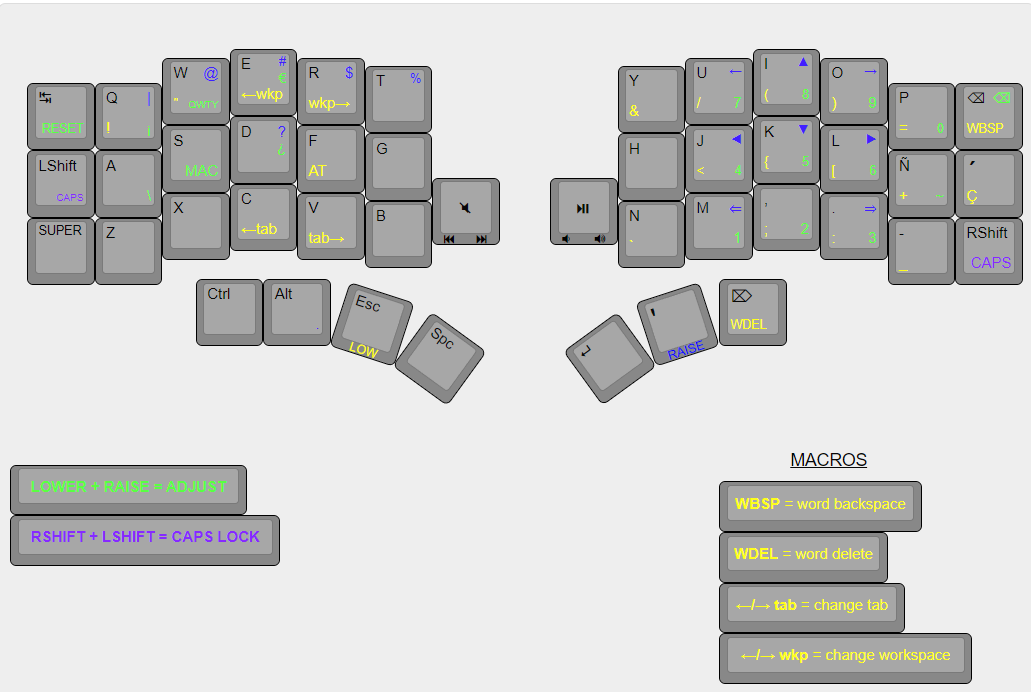
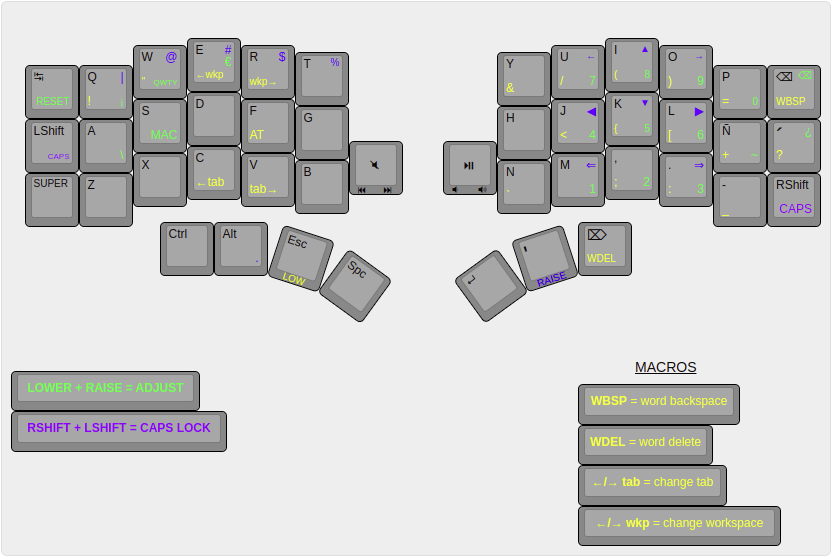
moved ? to lower+'

diff --git a/sofle/keymap.c b/sofle/keymap.c
@@ -169,7 +169,7 @@ const uint16_t PROGMEM keymaps[][MATRIX_ROWS][MATRIX_COLS] = {
  * |------+------+------+------+------+------|                    |------+------+------+------+------+------|
  * |      |  !   |   "  |PRV_WPC|NXT_WPC|    |                    |    & |   /  |  (   |   )  |   =  |WRDDEL|
  * |------+------+------+------+------+------|                    |------+------+------+------+------+------|
- * |      |      |      |      |KC_C_WINDOW| |-------.    ,-------|      |   <  |  {}  |  []  |  +*  |   Ç  |
+ * |      |      |      |      |KC_C_WINDOW| |-------.    ,-------|      |   <  |  {}  |  []  |  +*  |   ?  |
  * |------+------+------+------+------+------|       |    |       |------+------+------+------+------+------|
  * |      |      | |KC_C_TAB_prev|KC_C_TAB|  |-------|    |-------|   `  |      |   ;  |   :  |   _  |      |
  * `-----------------------------------------/       /     \      \-----------------------------------------'
@@ -181,7 +181,7 @@ const uint16_t PROGMEM keymaps[][MATRIX_ROWS][MATRIX_COLS] = {
 [_LOWER] = LAYOUT(
   _______,  _______, _______, _______, _______ ,_______,                    _______,   _______,   _______,   _______, _______,  _______,
   _______,  S(ES_1), S(ES_2),  PRV_WPC,    NXT_WPC, _______,                   S(ES_6),  S(ES_7)  , S(ES_8),  S(ES_9) ,  S(ES_0), WBSPC,
-  _______,  _______, _______,_______,KC_C_WINDOW, _______,                       _______, KC_NUBS, TD(BRCE), TD(BRKT), PLUS, KC_PIPE,
+  _______,  _______, _______,_______,KC_C_WINDOW, _______,                       _______, KC_NUBS, TD(BRCE), TD(BRKT), PLUS, S(ES_QUOT),
   _______,  _______, _______,KC_C_TAB_PREV,KC_C_TAB, _______, _______,       _______, ES_GRV, _______, S(KC_COMM), S(KC_DOT), S(ES_MINS), _______,
                        _______, _______, _______, _______, _______,       _______, MO(_RAISE), WDEL, _______, _______
 ),
@@ -191,7 +191,7 @@ const uint16_t PROGMEM keymaps[][MATRIX_ROWS][MATRIX_COLS] = {
  * |------+------+------+------+------+------|                    |------+------+------+------+------+------|
  * |      |  !   |   "  |PRV_WPC|NXT_WPC|    |                    |    & |   /  |  (   |   )  |   =  |WRDDEL|
  * |------+------+------+------+------+------|                    |------+------+------+------+------+------|
- * |      |      |      |    |KC_M_C_WINDOW| |-------.    ,-------|      |   <  |  {}  |  []  |  +*  |   Ç  |
+ * |      |      |      |    |KC_M_C_WINDOW| |-------.    ,-------|      |   <  |  {}  |  []  |  +*  |   ?  |
  * |------+------+------+------+------+------|       |    |       |------+------+------+------+------+------|
  * |      |      | |KC_C_TAB_prev|KC_C_TAB|  |-------|    |-------|   `  |      |   ;  |   :  |   _  |      |
  * `-----------------------------------------/       /     \      \-----------------------------------------'
@@ -203,7 +203,7 @@ const uint16_t PROGMEM keymaps[][MATRIX_ROWS][MATRIX_COLS] = {
 [_M_LOWER] = LAYOUT(
   _______,  _______, _______, _______, _______ ,_______,                    _______,   _______,   _______,   _______, _______,  _______,
   _______,  S(ES_1), S(ES_2),  PRV_WPC,    NXT_WPC, _______,                   S(ES_6),  S(ES_7)  , S(ES_8),  S(ES_9) ,  S(ES_0), M_WBSPC,
-  _______,  _______, _______,_______,KC_M_C_WINDOW, _______,                       _______, KC_GRV, TD(BRCE), TD(BRKT), PLUS, KC_PIPE,
+  _______,  _______, _______,_______,KC_M_C_WINDOW, _______,                       _______, KC_GRV, TD(BRCE), TD(BRKT), PLUS, S(ES_QUOT),
   _______,  _______, _______,KC_C_TAB_PREV,KC_C_TAB, _______, _______,       _______, ES_GRV, _______, S(KC_COMM), S(KC_DOT), S(ES_MINS), _______,
                        _______, _______, _______, _______, _______,       _______, MO(_M_RAISE), M_WDEL, _______, _______
 ),
@@ -213,7 +213,7 @@ const uint16_t PROGMEM keymaps[][MATRIX_ROWS][MATRIX_COLS] = {
  * |------+------+------+------+------+------|                    |------+------+------+------+------+------|
  * |      |  |   |  @   |   #  |   $  |   %  |                    |      | PWrd |  Up  | NWrd |      |      |
  * |------+------+------+------+------+------|                    |------+------+------+------+------+------|
- * |      |      |      |   ?  |      |      |-------.    ,-------|      | Left | Down | Rigth|      |      |
+ * |      |      |      |      |      |      |-------.    ,-------|      | Left | Down | Rigth|      |      |
  * |------+------+------+------+------+------|       |    |       |------+------+------+------+------+------|
  * |      |      |      |      |      |      |-------|    |-------|      | LStr |      | LEnd |      |      |
  * `-----------------------------------------/       /     \      \-----------------------------------------'
@@ -224,7 +224,7 @@ const uint16_t PROGMEM keymaps[][MATRIX_ROWS][MATRIX_COLS] = {
 [_RAISE] = LAYOUT(
   _______,_______,_______, _______, _______, _______,                       _______, _______, _______, _______, _______, _______,
   _______, ALGR(ES_1), ALGR(ES_2),ALGR(ES_3),S(ES_4),S(ES_5),               _______, PRVWD,  KC_UP, NXTWD, _______, _______,
-  _______, _______, _______, S(ES_QUOT), _______, _______,                    _______, KC_LEFT, KC_DOWN,  KC_RGHT, _______, _______,
+  _______, _______, _______, _______, _______, _______,                    _______, KC_LEFT, KC_DOWN,  KC_RGHT, _______, _______,
   _______, _______, _______, _______, _______, _______,  _______,    _______, _______, KC_HOME, _______, KC_END,  _______, _______,
                     _______, _______, _______, MO(_LOWER), _______,      _______, _______, _______, _______, _______
 ),
@@ -234,7 +234,7 @@ const uint16_t PROGMEM keymaps[][MATRIX_ROWS][MATRIX_COLS] = {
  * |------+------+------+------+------+------|                    |------+------+------+------+------+------|
  * |      |  |   |  @   |   #  |   $  |   %  |                    |      | PWrd |  Up  | NWrd |      |      |
  * |------+------+------+------+------+------|                    |------+------+------+------+------+------|
- * |      |      |      |   ?  |     |      |-------.    ,-------|      | Left | Down | Rigth|      |      |
+ * |      |      |      |      |      |      |-------.    ,-------|      | Left | Down | Rigth|      |      |
  * |------+------+------+------+------+------|       |    |       |------+------+------+------+------+------|
  * |      |      |      |      |      |      |-------|    |-------|      | LStr |      | LEnd |      |      |
  * `-----------------------------------------/       /     \      \-----------------------------------------'
@@ -245,7 +245,7 @@ const uint16_t PROGMEM keymaps[][MATRIX_ROWS][MATRIX_COLS] = {
 [_M_RAISE] = LAYOUT(
   _______,_______,_______, _______, _______, _______,                       _______, _______, _______, _______, _______, _______,
   _______, ALGR(ES_1), ALGR(ES_2),ALGR(ES_3),S(ES_4),S(ES_5),               _______, M_PRVWD,  KC_UP, M_NXTWD, _______, _______,
-  _______, _______, _______, S(ES_QUOT), _______, _______,                    _______, KC_LEFT, KC_DOWN,  KC_RGHT, _______, _______,
+  _______, _______, _______, _______, _______, _______,                    _______, KC_LEFT, KC_DOWN,  KC_RGHT, _______, _______,
   _______, _______, _______, _______, _______, _______,  _______,    _______, _______, KC_HOME, _______, KC_END,  _______, _______,
                     _______, _______, _______, MO(_M_LOWER), _______,      _______, _______, _______, _______, _______
 ),
@@ -255,7 +255,7 @@ const uint16_t PROGMEM keymaps[][MATRIX_ROWS][MATRIX_COLS] = {
  * |------+------+------+------+------+------|                    |------+------+------+------+------+------|
  * | RESET|   ¡  |QWERTY|   €  |      |      |                    |      |   7  |  8   |  9   |   0  | Bspc |
  * |------+------+------+------+------+------|                    |------+------+------+------+------+------|
- * |      |  \  |MQWERTY|   ¿  |      |      |-------.    ,-------|      |   4  |  5   |  6   |   ~  |      |
+ * |      |  \  |MQWERTY|      |      |      |-------.    ,-------|      |   4  |  5   |  6   |   ~  |   ¿  |
  * |------+------+------+------+------+------|       |    |       |------+------+------+------+------+------|
  * |      |      |      |      |      |      |-------|    |-------|      |   1  |  2   |  3   |      |      |
  * `-----------------------------------------/       /     \      \-----------------------------------------'
@@ -267,7 +267,7 @@ const uint16_t PROGMEM keymaps[][MATRIX_ROWS][MATRIX_COLS] = {
   [_ADJUST] = LAYOUT(
   XXXXXXX , XXXXXXX,  XXXXXXX ,  XXXXXXX , XXXXXXX, XXXXXXX,                  XXXXXXX, XXXXXXX, XXXXXXX, XXXXXXX, XXXXXXX, XXXXXXX,
   RESET   , KC_EQL,KC_QWERTY, ALGR(ES_E),XXXXXXX,XXXXXXX,                    XXXXXXX, KC_7,     KC_8,     KC_9,    KC_0, KC_BSPC,
-  XXXXXXX , ALGR(ES_MORD), KC_M_QWERTY, KC_PLUS, XXXXXXX,  XXXXXXX,          XXXXXXX, KC_4,     KC_5,     KC_6, ALGR(ES_NTIL), XXXXXXX,
+  XXXXXXX , ALGR(ES_MORD), KC_M_QWERTY, XXXXXXX, XXXXXXX,  XXXXXXX,          XXXXXXX, KC_4,     KC_5,     KC_6, ALGR(ES_NTIL), KC_PLUS,
   XXXXXXX , XXXXXXX, XXXXXXX, XXXXXXX, XXXXXXX, XXXXXXX, XXXXXXX,     XXXXXXX,XXXXXXX,KC_1,     KC_2,     KC_3, XXXXXXX, _______,
                    _______, _______, _______, _______, _______,     _______, _______, _______, _______, _______
   )

diff --git a/readme.md b/readme.md
@@ -1,5 +1,7 @@
 [![SofleKeyboard custom keymap](https://github.com/pouyio/keymaps/raw/master/keymap.png)](http://www.keyboard-layout-editor.com/#/gists/a8c20711f4953e7b41d8760d00769210)
 
+[QMK official docs](https://docs.qmk.fm/#/)
+
 # Custom keymap for Sofle Keyboard
 
 **Removed top row**, resulting in 6x3+(4-3).
@@ -18,6 +20,9 @@ Adapted to **my** personal needs:
 - Hold tap for `}`, `]` and `*`.
 - Caps lock tapping both shifts.
 
+
+## Install
+Execute `qmk setup -H ./qmk_firmware` to install all qmk dependencies pointing to the qmk_firmware symlinked repo.
 
 ## Run
 Execute `make sofle`
